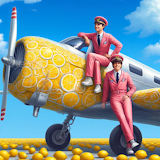
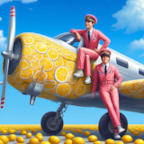
todo reorder

diff --git a/src/App.vue b/src/App.vue
@@ -80,15 +80,16 @@ onUnmounted(() => {
  x Seek track on seekbar click
  x Play track on double click
  x Play next track automatically after track ends
- * Add loading spinner when track is loading
- * Cover animation
- * Volume bar
- * Shuffle tracks
- * Repeat track / playlist
+ x Cover animation
+ * Repeat one track
  * Dont select track on page load
  * Play first track when no track is selected on play click
- * Scroll to selected track (when switching from first to last)
+ *
+ * Shuffle tracks
+ * Volume bar
  * Missing track indicator
+ * Add loading spinner when track is loading
+ * Scroll to selected track (when switching from first to last)
  */
 </script>
 
@@ -136,19 +137,23 @@ onUnmounted(() => {
   height: 160px;
 }
 .cover {
+  display: flex;
+  align-items: center;
+  justify-content: center;
   width: 160px;
   height: 160px;
   border: 1px solid var(--orange);
 }
 .vinyl {
-  width: 100%;
-  height: 100%;
-  background: url('brothers1.png');
+  width: 144px;
+  height: 144px;
+  background: url('brothers1.png') no-repeat;
   mask-image: url('vinyl.png');
+  animation: rotate 16s linear infinite;
+  animation-play-state: paused;
 }
 .rotating {
-  animation: rotate 16s linear infinite;
-  transform-origin: center center;
+  animation-play-state: running;
 }
 @keyframes rotate {
   from {
